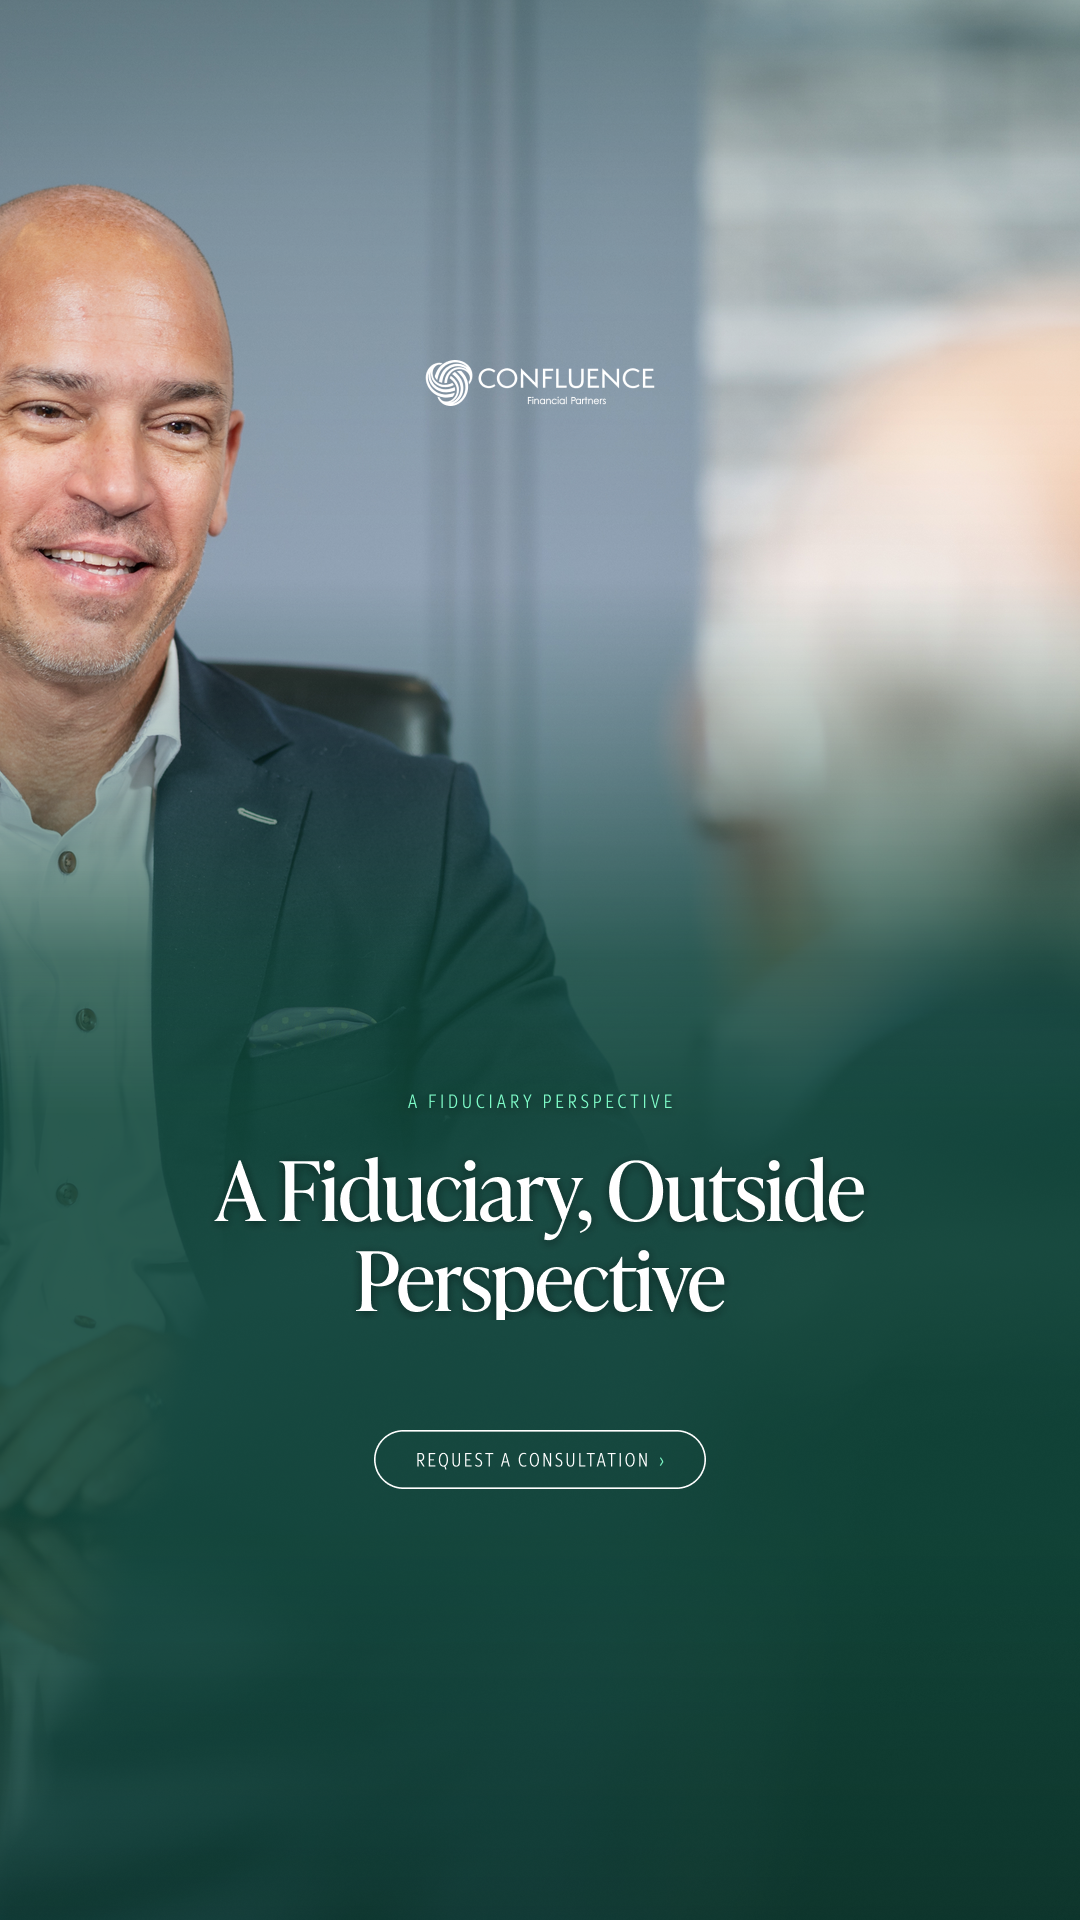
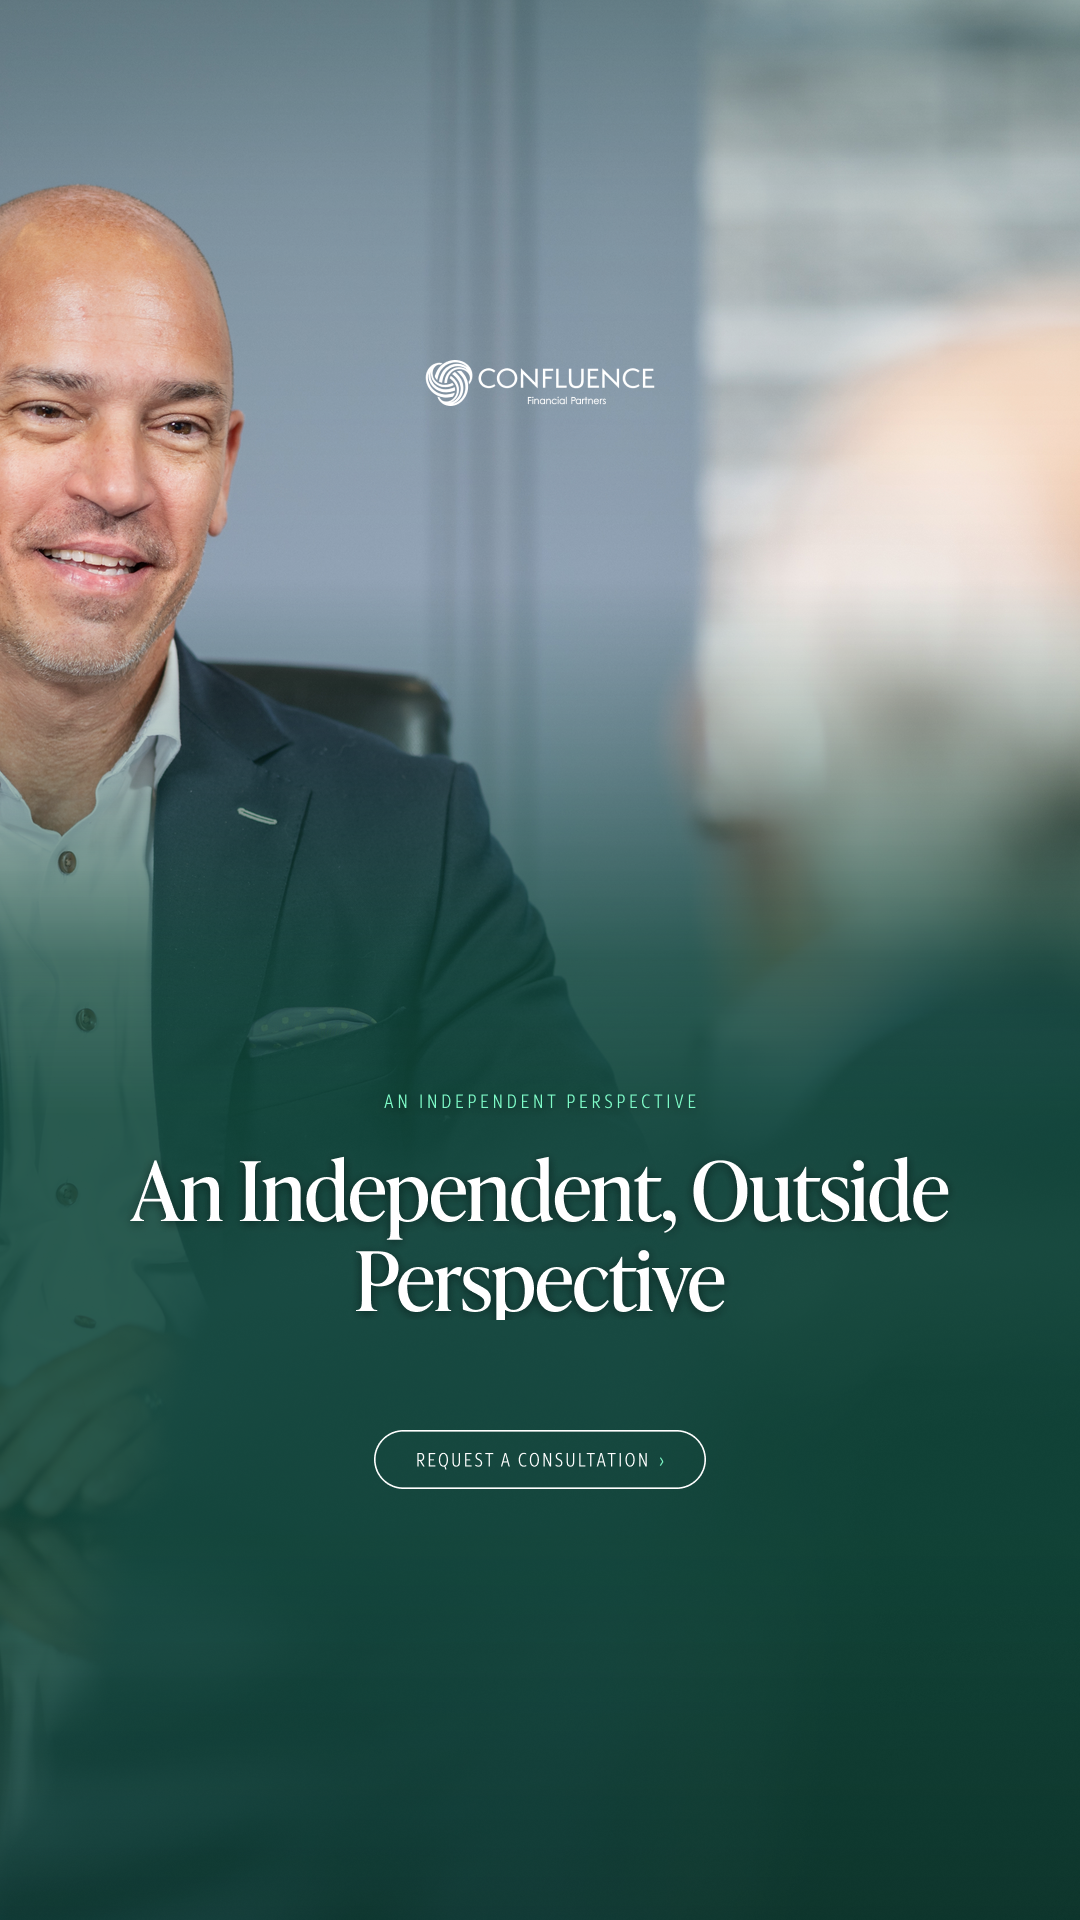
CFP consultation: fiduciary -> independent on-image (compliance D-2026-07-03-025)
"Fiduciary" is restricted to RIA-class/compliance-disclosure contexts (never a
headline/differentiator), and Bill dislikes the word. Changed the on-image copy
on all T2 frames that rendered it:
- ad3 feed + story, ad11 solid-CTA feed:
    headline "A Fiduciary, Outside Perspective" -> "An Independent, Outside Perspective"
    eyebrow  "A FIDUCIARY PERSPECTIVE" -> "AN INDEPENDENT PERSPECTIVE"
- ad4 feed + story (caught by a full-page compliance sweep, not in the original list):
    eyebrow  "A FIDUCIARY PERSPECTIVE" -> "AN INDEPENDENT PERSPECTIVE"
Same type sizes, scrim, crop, safe-zone. Re-exported the 5 PNGs; cache-bust
re-stamped. Full-page sweep now shows ZERO "fiduciary" text nodes; data.json
already scrubbed (lead's metadata pass). Parity holds 20==20==20.

Legibility: all re-exported assets <2% of text band below 4.5:1.

Changed region(s): [[0.1222, 0.5625, 0.8861, 0.6562]]

diff --git a/confluence-fp-consultation/index.html b/confluence-fp-consultation/index.html
@@ -1199,7 +1199,7 @@ let _activeImageVersion = {};
 let _placementIdx = {};
 let _feedbackCache = {};
 const CAMPAIGN_ID = 'confluence-fp-consultation';
-const ASSET_V = '1785215257';  // cache-bust token, stamped at bake time
+const ASSET_V = '1785241662';  // cache-bust token, stamped at bake time
 
 // ── Utility ────────────────────────────────────────────────────────────────
 function esc(s) {
